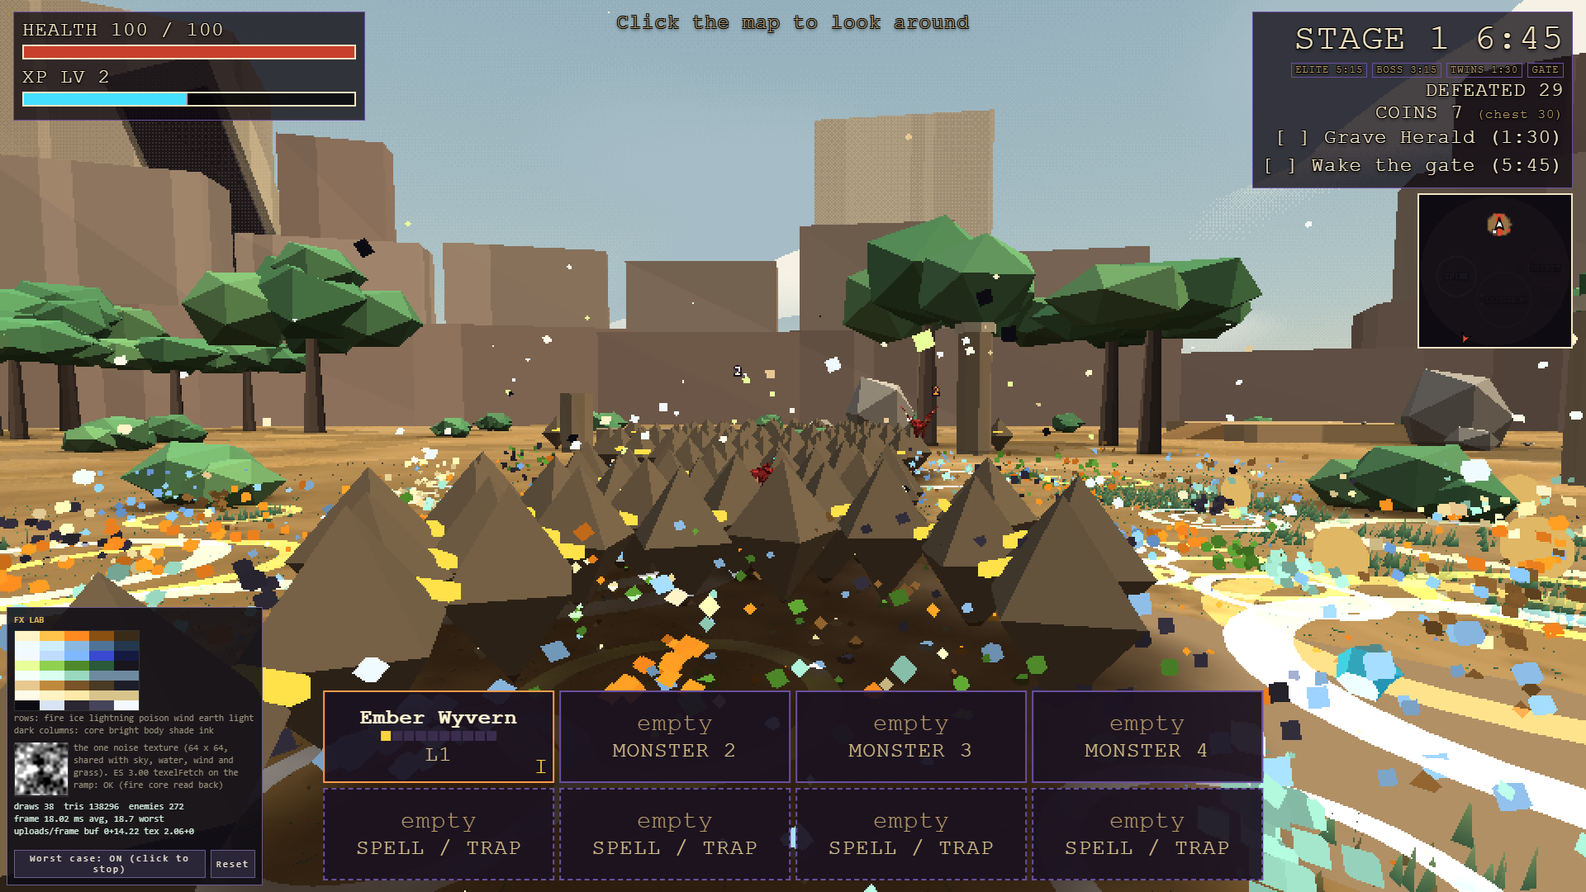
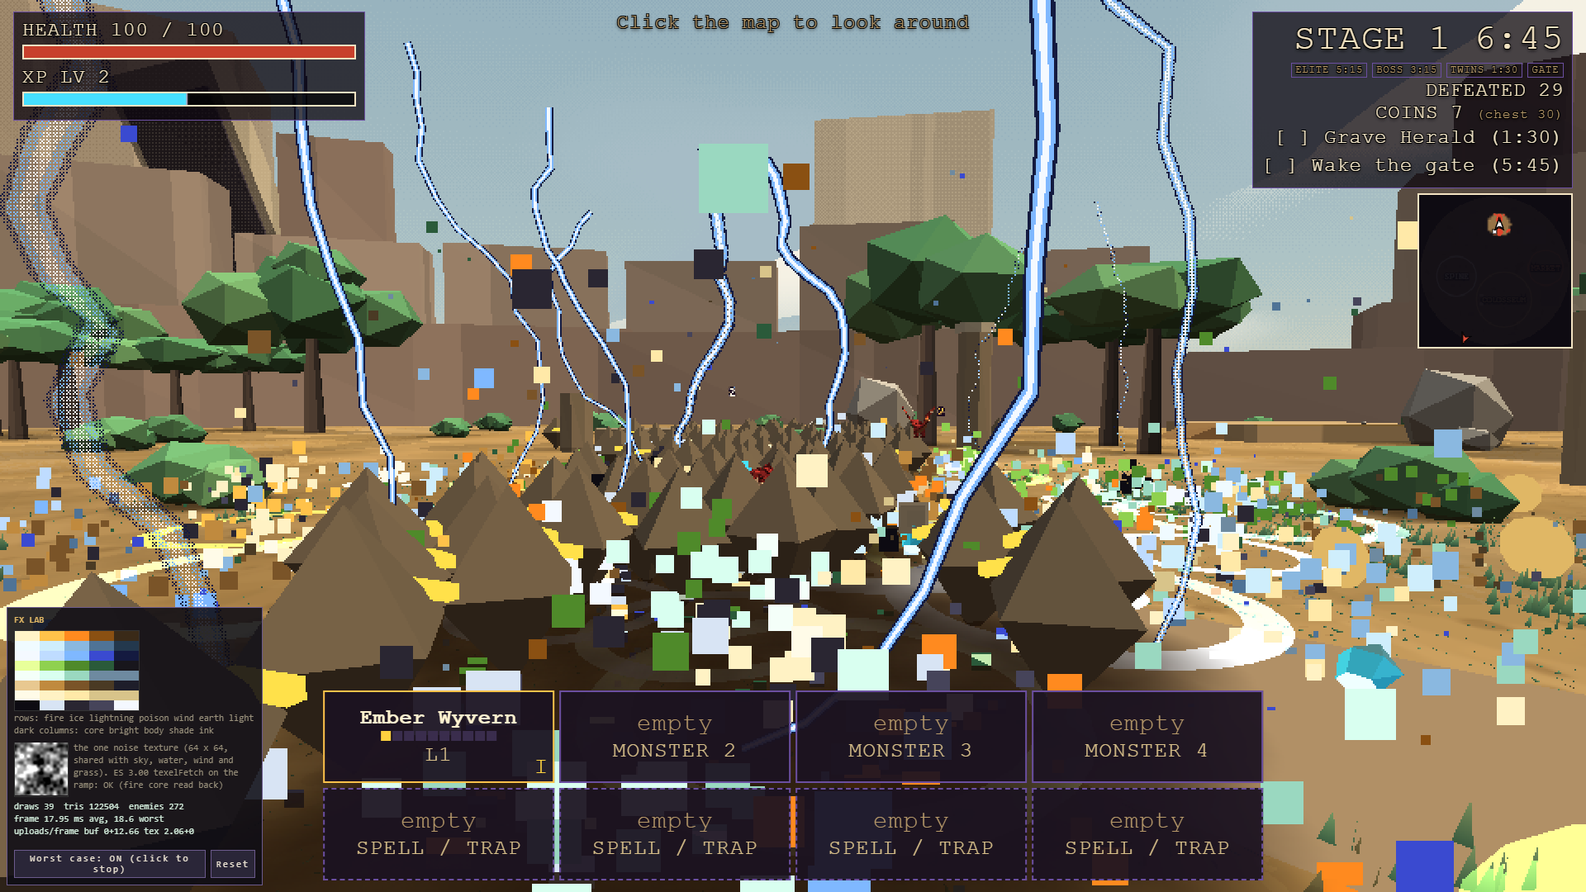
Spectacle step 6: GPU particles, the lightning ribbon, element colours from the ramp
Particles: the 4,000-slot CPU loop and its two buffer uploads a frame are replaced by one instanced draw worked out on the GPU (spec 6.4). A particle is written once, at spawn, into one interleaved 15-float buffer (position and birth time, velocity and life, gravity, drag, size, ramp row, explicit colour); the vertex shader finds its place from the clock (closed-form drag, gravity, stepped shrink, nothing drawn within 2 m of the lens), the fragment shader writes a hard square in the ramp tone for its age, and only the slots spawned that frame are uploaded. The pool is 4,096 and the mesh is hidden when nothing is live. Callers are unchanged; new burstEl and sparkEl spawn straight into an element's ramp row. Lightning: view/ribbon.js is the spec 6.5 ribbon, one strip of 17 points by 2 sides, one instance per bolt, ES 3.00 with the midpoint displacement summed in the vertex shader and a new shape every 50 ms while the bolt is thin; the monster rune bolts use it instead of three boxes, in the lightning ramp row (blue-white core, electric body, ink edge) instead of XP cyan. Colours: damage numbers (fx.js) and the HUD element tags (hud.js) now read the ramp. test/browser-particles.mjs measures the update cost at 1,200 live; the lab's Worst case fires ribbons and ramp bursts.

Claude-Session: https://claude.ai/code/session_01G4m5sPDpcSeznt8KShqd9B

diff --git a/duelsummoner/src/view/fx.js b/duelsummoner/src/view/fx.js
@@ -1,10 +1,14 @@
-// Game-feel effects. View only: nothing here reads or changes the rules, everything is fed from the sim's event queue and from
+// Game-feel effects. View only: nothing here reads or changes the rules, everything is fed from the sim's event queue and from
 // state changes the view notices. Every pool is fixed size and allocated once (particles 4000, damage numbers 64, rings 48,
 // beams 4, flipping cards 12), so steady state allocates nothing per frame.
 const T = window.THREE;
+import { RAMP } from '../data/fxramp.js';
+import { FX } from './fxkit.js';
 
-const ELEM_COL = [null, '#ff9a3a', '#8fe8ff', '#9fd8ff', '#9be86a', '#c8f0d0', '#c9a46a', '#fff2a0', '#c08aff'];
-export const POOL = { particles: 4000, numbers: 64, rings: 48, beams: 4, cards: 12 };
+// damage number colours by element, from the one effect ramp (bright tone): fire, lightning, ice, poison, wind, earth, light, dark (index = bit + 1, as the hit flags carry them)
+const hexStr = c => '#' + c.toString(16).padStart(6, '0');
+const ELEM_COL = [null, ...['fire', 'lightning', 'ice', 'poison', 'wind', 'earth', 'light', 'dark'].map(e => hexStr(RAMP[e][1]))];
+export const POOL = { particles: 4096, numbers: 64, rings: 48, beams: 4, cards: 12 };
 
 export class Fx {
   constructor(scene, settings) {
@@ -14,14 +18,23 @@ export class Fx {
     this.avgDmg = 3;
     this.shakeOff = { x: 0, y: 0, z: 0, roll: 0 };
 
-    // particles: one instanced mesh, ring-buffer slots
-    const N = POOL.particles; this.N = N; this.head = 0;
-    this.pos = new Float32Array(N * 3); this.vel = new Float32Array(N * 3); this.age = new Float32Array(N); this.life = new Float32Array(N);
-    this.size = new Float32Array(N); this.grav = new Float32Array(N); this.rgb = new Float32Array(N * 3); this.on = new Uint8Array(N);
-    this.pm = new T.InstancedMesh(new T.OctahedronGeometry(0.5, 0), new T.MeshBasicMaterial({ color: 0xffffff }), N);
-    this.pm.instanceColor = new T.InstancedBufferAttribute(new Float32Array(N * 3), 3); this.pm.instanceMatrix.setUsage(T.DynamicDrawUsage);
+    // particles: ONE instanced draw, worked out on the GPU (spectacle spec 6.4). A particle is written once, at spawn, into one interleaved buffer of 15 floats (spawn position and birth time, velocity and life,
+    // gravity, drag, size and ramp row, an explicit colour used when the row is negative); the vertex shader finds its place from the clock, so nothing is uploaded per frame except the slots spawned that frame.
+    const N = POOL.particles; this.N = N; this.head = 0; this.pt = 0; this.pdie = new Float32Array(N).fill(-1); this._lo = N; this._hi = -1; this._wrap = false;
+    this.pbuf = new T.InstancedInterleavedBuffer(new Float32Array(N * 15), 15, 1); this.pbuf.setUsage(T.DynamicDrawUsage);
+    const pg = new T.InstancedBufferGeometry(); pg.setAttribute('position', new T.Float32BufferAttribute([-0.5, -0.5, 0, 0.5, -0.5, 0, 0.5, 0.5, 0, -0.5, 0.5, 0], 3)); pg.setIndex([0, 1, 2, 0, 2, 3]);
+    pg.setAttribute('iP0', new T.InterleavedBufferAttribute(this.pbuf, 4, 0)); pg.setAttribute('iV0', new T.InterleavedBufferAttribute(this.pbuf, 4, 4)); pg.setAttribute('iK', new T.InterleavedBufferAttribute(this.pbuf, 4, 8)); pg.setAttribute('iC', new T.InterleavedBufferAttribute(this.pbuf, 3, 12)); pg.instanceCount = N;
+    this.puni = { uTime: { value: 0 }, uRamp: FX.ramp };
+    this.pm = new T.Mesh(pg, new T.ShaderMaterial({ uniforms: this.puni, fog: false,
+      vertexShader: 'attribute vec4 iP0; attribute vec4 iV0; attribute vec4 iK; attribute vec3 iC; uniform float uTime; varying vec3 vCol; varying float vU; varying float vRow;\n' +
+        'void main() { float t = uTime - iP0.w, u = t / iV0.w; if (t < 0.0 || u >= 1.0) { gl_Position = vec4(2.0, 2.0, 2.0, 1.0); return; }\n' +
+        ' float e = iK.y > 0.0 ? (1.0 - exp(-iK.y * t)) / iK.y : t; vec3 p = iP0.xyz + iV0.xyz * e; p.y -= 0.5 * iK.x * t * t; if (iK.x > 0.0) p.y = max(p.y, 0.05);\n' +
+        ' float sz = iK.z * (u < 0.65 ? 1.0 : (1.0 - u) / 0.35); sz = ceil(sz * 16.0) / 16.0; vec4 c = viewMatrix * vec4(p, 1.0);\n' +
+        ' if (-c.z < 2.0) { gl_Position = vec4(2.0, 2.0, 2.0, 1.0); return; }\n' +
+        ' c.xy += position.xy * sz; vU = u; vRow = iK.w; vCol = iC; gl_Position = projectionMatrix * c; }',
+      fragmentShader: 'uniform sampler2D uRamp; varying vec3 vCol; varying float vU; varying float vRow;\n' +
+        'void main() { vec3 c = vRow >= 0.0 ? texture2D(uRamp, vec2((floor(vU * 4.0) + 0.5) / 8.0, (vRow + 0.5) / 8.0)).rgb : vCol; gl_FragColor = vec4(c, 1.0); }' }));
     this.pm.frustumCulled = false; this.pm.count = 0; scene.add(this.pm);
-
     // rings (flat, additive)
     const R = POOL.rings; this.R = R; this.rh = 0;
     this.rp = new Float32Array(R * 3); this.rr = new Float32Array(R); this.rage = new Float32Array(R); this.rlife = new Float32Array(R); this.rcol = new Float32Array(R * 3); this.ron = new Uint8Array(R);
@@ -62,24 +75,25 @@ export class Fx {
   hitstop(sec) { if (!this.rm_) this.stop = Math.max(this.stop, sec); }
   flash(a) { if (!this.rm_) this.flashA = Math.max(this.flashA, a); }
 
+  // one particle into the ring buffer: written once; the GPU does the rest (see the constructor). row >= 0 takes its colour from the effect ramp by age; row < 0 uses the explicit colour (r, g, b)
+  _spawn(x, y, z, vx, vy, vz, life, grav, drag, size, row, r, g, b) {
+    const i = this.head, o = i * 15, a = this.pbuf.array; if (i < this._lo) this._lo = i; if (i > this._hi) this._hi = i; this.head = (this.head + 1) % this.N; if (this.head === 0) this._wrap = true;
+    a[o] = x; a[o + 1] = y; a[o + 2] = z; a[o + 3] = this.pt; a[o + 4] = vx; a[o + 5] = vy; a[o + 6] = vz; a[o + 7] = life; a[o + 8] = grav; a[o + 9] = drag; a[o + 10] = size; a[o + 11] = row; a[o + 12] = r; a[o + 13] = g; a[o + 14] = b; this.pdie[i] = this.pt + life;
+  }
   burst(x, y, z, n, hex, speed, up, size, life, grav) {
     const c = this.col.setHex(hex);
     for (let k = 0; k < n; k++) {
-      const i = this.head, j = i * 3; this.head = (this.head + 1) % this.N;
-      const a = Math.random() * 6.2832, r = Math.random() * speed, u = (0.3 + Math.random()) * up;
-      this.pos[j] = x; this.pos[j + 1] = y; this.pos[j + 2] = z;
-      this.vel[j] = Math.cos(a) * r; this.vel[j + 1] = u; this.vel[j + 2] = Math.sin(a) * r;
-      this.age[i] = 0; this.life[i] = life * (0.7 + Math.random() * 0.6); this.size[i] = size * (0.6 + Math.random() * 0.8); this.grav[i] = grav;
-      const shade = 0.75 + Math.random() * 0.5; this.rgb[j] = c.r * shade; this.rgb[j + 1] = c.g * shade; this.rgb[j + 2] = c.b * shade; this.on[i] = 1;
+      const a = Math.random() * 6.2832, r = Math.random() * speed, u = (0.3 + Math.random()) * up, shade = 0.75 + Math.random() * 0.5;
+      this._spawn(x, y, z, Math.cos(a) * r, u, Math.sin(a) * r, life * (0.7 + Math.random() * 0.6), grav, 0, size * (0.6 + Math.random() * 0.8), -1, c.r * shade, c.g * shade, c.b * shade);
     }
   }
-  // one particle with an explicit velocity (trails, dust)
-  spark(x, y, z, vx, vy, vz, hex, size, life) {
-    const i = this.head, j = i * 3, c = this.col.setHex(hex); this.head = (this.head + 1) % this.N;
-    this.pos[j] = x; this.pos[j + 1] = y; this.pos[j + 2] = z; this.vel[j] = vx; this.vel[j + 1] = vy; this.vel[j + 2] = vz;
-    this.age[i] = 0; this.life[i] = life; this.size[i] = size; this.grav[i] = 0; this.rgb[j] = c.r; this.rgb[j + 1] = c.g; this.rgb[j + 2] = c.b; this.on[i] = 1;
+  // a burst in an element's own ramp row (0 fire, 1 ice, 2 lightning, 3 poison, 4 wind, 5 earth, 6 light, 7 dark): the colour steps core, bright, body, shade over the particle's life
+  burstEl(x, y, z, n, row, speed, up, size, life, grav) {
+    for (let k = 0; k < n; k++) { const a = Math.random() * 6.2832, r = Math.random() * speed, u = (0.3 + Math.random()) * up; this._spawn(x, y, z, Math.cos(a) * r, u, Math.sin(a) * r, life * (0.7 + Math.random() * 0.6), grav, 0, size * (0.6 + Math.random() * 0.8), row, 0, 0, 0); }
   }
-  ring(x, y, z, r, hex, life) {
+  // one particle with an explicit velocity (trails, dust)
+  spark(x, y, z, vx, vy, vz, hex, size, life) { const c = this.col.setHex(hex); this._spawn(x, y, z, vx, vy, vz, life, 0, 0, size, -1, c.r, c.g, c.b); }
+  sparkEl(x, y, z, vx, vy, vz, row, size, life) { this._spawn(x, y, z, vx, vy, vz, life, 0, 0, size, row, 0, 0, 0); }  ring(x, y, z, r, hex, life) {
     const i = this.rh, j = i * 3, c = this.col.setHex(hex); this.rh = (this.rh + 1) % this.R;
     this.rp[j] = x; this.rp[j + 1] = y; this.rp[j + 2] = z; this.rr[i] = r; this.rage[i] = 0; this.rlife[i] = life; this.rcol[j] = c.r; this.rcol[j + 1] = c.g; this.rcol[j + 2] = c.b; this.ron[i] = 1;
   }
@@ -129,23 +143,12 @@ export class Fx {
   // ---- per frame ----
   update(dt, camera) {
     this.numBudget = Math.min(8, this.numBudget + dt * 60);
-    const d = this.d, c = this.col;
-    // particles
-    let n = 0;
-    for (let i = 0; i < this.N; i++) {
-      if (!this.on[i]) continue;
-      const j = i * 3, a = (this.age[i] += dt), life = this.life[i];
-      if (a >= life) { this.on[i] = 0; continue; }
-      this.vel[j + 1] -= this.grav[i] * dt;
-      this.pos[j] += this.vel[j] * dt; this.pos[j + 1] += this.vel[j + 1] * dt; this.pos[j + 2] += this.vel[j + 2] * dt;
-      if (this.pos[j + 1] < 0.05 && this.grav[i] > 0) { this.pos[j + 1] = 0.05; this.vel[j + 1] *= -0.3; this.vel[j] *= 0.6; this.vel[j + 2] *= 0.6; }
-      const f = 1 - a / life, s = this.size[i] * (f < 0.35 ? f / 0.35 : 1);
-      d.position.set(this.pos[j], this.pos[j + 1], this.pos[j + 2]); d.rotation.set(a * 5, a * 3, 0); d.scale.setScalar(s); d.updateMatrix();
-      this.pm.setMatrixAt(n, d.matrix); this.pm.setColorAt(n, c.setRGB(this.rgb[j], this.rgb[j + 1], this.rgb[j + 2])); n++;
-    }
-    this.pm.count = n; this.pm.instanceMatrix.needsUpdate = true; this.pm.instanceColor.needsUpdate = true;
-    // rings
-    n = 0;
+    // particles: the GPU moves them; here only the clock, the one upload of the slots spawned this frame, and the live count (the tests and the lab read it)
+    this.pt += dt; this.puni.uTime.value = this.pt;
+    if (this._hi >= 0) { const b = this.pbuf; if (this._wrap) b.updateRange.count = -1; else { b.updateRange.offset = this._lo * 15; b.updateRange.count = (this._hi - this._lo + 1) * 15; } b.needsUpdate = true; this._lo = this.N; this._hi = -1; this._wrap = false; }
+    let n = 0; for (let i = 0; i < this.N; i++) if (this.pdie[i] > this.pt) n++;
+    this.pm.count = n;    // rings
+    n = 0; const d = this.d, c = this.col;
     for (let i = 0; i < this.R; i++) {
       if (!this.ron[i]) continue; const j = i * 3, a = (this.rage[i] += dt), u = a / this.rlife[i];
       if (u >= 1) { this.ron[i] = 0; continue; }

diff --git a/duelsummoner/src/view/ribbon.js b/duelsummoner/src/view/ribbon.js
@@ -1,0 +1,58 @@
+// The lightning ribbon (spectacle spec 6.5): one static strip of 17 points by 2 sides, drawn instanced, one instance per bolt. The zigzag is summed from midpoint displacement in the vertex shader (closed form, no history),
+// the bolt picks a new shape every 50 ms while it is thin, and the instance data is written once, when the sim first shows the bolt. Nothing is uploaded after that. View only: the sim keeps sending each bolt with both end
+// points and a seed (the 'bolt' effect entries); this file only draws them. Colours come from the one effect ramp (row 2, lightning: blue-white core, electric body, indigo shade, ink edge).
+import { GLSL } from './engine.js';
+import { FX } from './fxkit.js';
+import { ROW } from '../data/fxramp.js';
+const T = window.THREE, POOL = 64, STRIDE = 13;
+
+export class Ribbon {
+  constructor(scene) {
+    this.t0 = performance.now(); this.head = 0; this.last = -1e9; this.seen = new WeakMap(); this.uni = { uTime: { value: 0 }, uStepHz: { value: 20 }, uRamp: FX.ramp };
+    const pos = [], idx = []; for (let k = 0; k <= 16; k++) for (const s of [-1, 1]) pos.push(k / 16, s, 0); for (let k = 0; k < 16; k++) { const a = k * 2; idx.push(a, a + 1, a + 2, a + 1, a + 3, a + 2); }
+    this.buf = new T.InstancedInterleavedBuffer(new Float32Array(POOL * STRIDE).fill(0), STRIDE, 1); this.buf.setUsage(T.DynamicDrawUsage); for (let i = 0; i < POOL; i++) this.buf.array[i * STRIDE + 7] = -1e6;       // birth far in the past: every slot starts dead
+    const g = new T.InstancedBufferGeometry(); g.setAttribute('aTS', new T.Float32BufferAttribute(pos, 3)); g.setIndex(idx);
+    g.setAttribute('iA', new T.InterleavedBufferAttribute(this.buf, 4, 0)); g.setAttribute('iB', new T.InterleavedBufferAttribute(this.buf, 4, 4)); g.setAttribute('iC', new T.InterleavedBufferAttribute(this.buf, 4, 8)); g.setAttribute('iCore', new T.InterleavedBufferAttribute(this.buf, 1, 12)); g.instanceCount = POOL;
+    const mat = new T.ShaderMaterial({ glslVersion: T.GLSL3, uniforms: this.uni, depthWrite: true, side: T.DoubleSide, fog: false,
+      vertexShader: `precision highp float; precision highp int;
+in vec3 aTS; in vec4 iA; in vec4 iB; in vec4 iC; in float iCore; uniform float uTime; uniform float uStepHz;
+out vec2 vUV; out float vU; flat out int vRow; flat out float vCore;
+uint h(uint x) { x ^= x >> 16; x *= 0x7feb352dU; x ^= x >> 15; x *= 0x846ca68bU; x ^= x >> 16; return x; }
+float r1(uint s, int L, uint j) { return float(h(s ^ (uint(L) * 0x9e3779b9U) ^ (j * 0x85ebca6bU)) & 0xffffU) / 32767.5 - 1.0; }
+vec3 bolt(float t, uint s, vec3 a, vec3 b, vec3 n1, vec3 n2, float amp) {
+  vec2 o = vec2(0.0); float w = 1.0;
+  for (int L = 0; L < 4; L++) { float u = t * float(1 << L); uint j = uint(u); float hat = 1.0 - abs(2.0 * fract(u) - 1.0); o += hat * w * vec2(r1(s, L, j), r1(s + 77U, L, j)); w *= 0.5; }
+  return mix(a, b, t) + (n1 * o.x + n2 * o.y) * amp;
+}
+void main() {
+  float age = uTime - iB.w, u = age / iC.y;
+  if (age < 0.0 || u >= 1.0) { gl_Position = vec4(2.0, 2.0, 2.0, 1.0); return; }
+  float hz = iA.w > 0.2 ? 0.0 : uStepHz; uint s = uint(iC.x) + uint(age * hz) * 7919U;
+  vec3 d = iB.xyz - iA.xyz; float len = max(length(d), 0.001); vec3 dir = d / len;
+  vec3 n1 = normalize(cross(dir, abs(dir.y) < 0.9 ? vec3(0.0, 1.0, 0.0) : vec3(1.0, 0.0, 0.0))), n2 = cross(dir, n1);
+  float amp = min(len * 0.16, 1.2) * iC.w, t = aTS.x, e = t < 0.99 ? 0.03125 : -0.03125;
+  vec3 p = bolt(t, s, iA.xyz, iB.xyz, n1, n2, amp), q = bolt(t + e, s, iA.xyz, iB.xyz, n1, n2, amp);
+  vec3 side = normalize(cross(normalize((q - p) * sign(e)), cameraPosition - p));
+  p += side * aTS.y * iA.w * 0.5 * (1.0 - 0.6 * t);
+  vUV = vec2(t * len, aTS.y); vU = u; vRow = int(iC.z); vCore = iCore;
+  gl_Position = projectionMatrix * viewMatrix * vec4(p, 1.0);
+}`,
+      fragmentShader: GLSL.replace(/#version.*\n/, '') + `
+uniform sampler2D uRamp; out vec4 oc; in vec2 vUV; in float vU; flat in int vRow; flat in float vCore;
+void main() {
+  float a = abs(vUV.y);
+  if (vU > 0.6 && bayer() < (vU - 0.6) * 2.5) discard;
+  int tone = (a < 0.3 && vCore > 0.5) ? 0 : a < 0.7 ? 2 : 4;
+  oc = vec4(texelFetch(uRamp, ivec2(tone, vRow), 0).rgb, (tone < 4 && vCore > 0.5) ? 0.0 : 1.0);
+}` });
+    this.mesh = new T.Mesh(g, mat); this.mesh.frustumCulled = false; this.mesh.renderOrder = 2; scene.add(this.mesh); this._dirty = false;
+  }
+  // called every frame from the view: sets the clock and shows any sim bolt not seen before (a restarted pooled entry counts as new)
+  tick() { const t = this.uni.uTime.value = (performance.now() - this.t0) / 1000; this.mesh.visible = t - this.last < 2; if (this._dirty) { this.buf.needsUpdate = true; this._dirty = false; } }
+  see(o) {
+    const prev = this.seen.get(o); this.seen.set(o, o.t); if (prev !== undefined && o.t >= prev) return;
+    this.last = this.uni.uTime.value; const i = this.head, k = i * STRIDE, a = this.buf.array, now = this.uni.uTime.value - (o.t || 0); this.head = (this.head + 1) % POOL;
+    a[k] = o.x; a[k + 1] = o.y; a[k + 2] = o.z; a[k + 3] = o.w || 0.14; a[k + 4] = o.x2; a[k + 5] = o.y2; a[k + 6] = o.z2; a[k + 7] = now; a[k + 8] = o.seed || 1; a[k + 9] = o.dur || 0.15; a[k + 10] = ROW.LIGHTNING; a[k + 11] = 1; a[k + 12] = 1;
+    this.buf.updateRange.count = -1; this._dirty = true;
+  }
+}

diff --git a/duelsummoner/src/view/actors.js b/duelsummoner/src/view/actors.js
@@ -7,6 +7,7 @@ import { MAP } from '../data/map.js';
 import { SCALE, summonSize } from '../data/scale.js';
 import { DuelistRig } from './rig.js';
 import { actorLit } from './engine.js';
+import { Ribbon } from './ribbon.js';
 import { PICKUP_COLORS } from '../data/pickups.js';
 import { makeCreature } from './creature.js';
 
@@ -138,7 +139,7 @@ export class Actors {
     // soft contact shadows: a dark radial blob under the duelist, summons and swarm enemies (cheap: one instanced quad, no shadow maps)
     { const cv = document.createElement('canvas'); cv.width = cv.height = 64; const cx = cv.getContext('2d'), gr = cx.createRadialGradient(32, 32, 2, 32, 32, 31); gr.addColorStop(0, 'rgba(30,18,8,0.62)'); gr.addColorStop(0.45, 'rgba(30,18,8,0.52)'); gr.addColorStop(0.8, 'rgba(30,18,8,0.18)'); gr.addColorStop(1, 'rgba(30,18,8,0)'); cx.fillStyle = gr; cx.fillRect(0, 0, 64, 64);
       const tx = new T.CanvasTexture(cv); this.shadow = instanced(flat(new T.PlaneGeometry(2, 2)), new T.MeshBasicMaterial({ map: tx, transparent: true, depthWrite: false, polygonOffset: true, polygonOffsetFactor: -2 }), CFG.enemy.max + 16); scene.add(this.shadow); }
-    this.boltSeg = instanced(new T.BoxGeometry(0.07, 0.07, 1), basic(0x4fd8ff, { transparent: true, opacity: 0.9, depthWrite: false }), 96); scene.add(this.boltSeg);
+    this.ribbon = new Ribbon(scene);       // the rune bolts of the Spellcaster summons: the lightning ribbon, one draw (view/ribbon.js)
     this.fans = new Map();                                       // one mesh per arc angle, made on demand
     this.sand = null; this.sandR = -1;
     this.puffs = [];
@@ -473,17 +474,10 @@ export class Actors {
     this.teleLine.count = nl; this.teleDisc.count = nd;
     for (const mm of [this.teleLine, this.teleDisc]) { mm.instanceMatrix.needsUpdate = true; mm.instanceColor.needsUpdate = true; }
     // effects: expanding rings and fading fans
-    let nr = 0, nb = 0;
+    let nr = 0;
     for (const o of g.fx) {
       if (!o.on) continue;
-      if (o.type === 'bolt') {                                  // jagged 3-segment rune bolt, 0.15 s
-        const pts = [[o.x, o.y, o.z]], dx = o.x2 - o.x, dy = o.y2 - o.y, dz = o.z2 - o.z, l = Math.sqrt(dx * dx + dz * dz) || 1, nx = -dz / l, nz = dx / l;
-        for (let k = 1; k < 3; k++) { const j = ((Math.sin(o.seed * 12.9 + k * 7.1 + Math.floor(o.t * 40)) * 43758.5) % 1) * 0.9; pts.push([o.x + dx * k / 3 + nx * j, o.y + dy * k / 3 + (k % 2 ? 0.4 : -0.3), o.z + dz * k / 3 + nz * j]); }
-        pts.push([o.x2, o.y2, o.z2]);
-        for (let k = 0; k < 3 && nb < 96; k++) { const a = pts[k], b = pts[k + 1], sx = b[0] - a[0], sy = b[1] - a[1], sz = b[2] - a[2], sl = Math.sqrt(sx * sx + sy * sy + sz * sz) || 1;
-          d.position.set((a[0] + b[0]) / 2, (a[1] + b[1]) / 2, (a[2] + b[2]) / 2); d.lookAt(b[0], b[1], b[2]); d.scale.set(1, 1, sl); d.updateMatrix(); this.boltSeg.setMatrixAt(nb++, d.matrix); }
-        continue;
-      }
+      if (o.type === 'bolt') { this.ribbon.see(o); continue; }
       const f = Math.min(1, o.t / o.dur), fade = 1 - f;
       if (o.type === 'ring') {
         d.rotation.set(0, 0, 0); d.position.set(o.x, o.y + 0.15, o.z); const r = o.r * (0.35 + 0.65 * f); d.scale.set(r, 1, r); d.updateMatrix();
@@ -494,7 +488,7 @@ export class Actors {
         fan.setMatrixAt(n, d.matrix); fan.setColorAt(n, col.setHex(o.color).multiplyScalar(0.3 + 0.7 * fade)); fanN.set(fan, n + 1);
       }
     }
-    this.boltSeg.count = nb; this.boltSeg.instanceMatrix.needsUpdate = true;
+    this.ribbon.tick();
     this.fxRing.count = nr; this.fxRing.instanceMatrix.needsUpdate = true; this.fxRing.instanceColor.needsUpdate = true;
     for (const [fan, mesh] of this.fans) { mesh.count = fanN.get(mesh) || 0; mesh.instanceMatrix.needsUpdate = true; mesh.instanceColor.needsUpdate = true; }
   }

diff --git a/duelsummoner/src/view/fxlab.js b/duelsummoner/src/view/fxlab.js
@@ -28,8 +28,9 @@ export function startLab(D) {
   const out = $('pre', 'margin:6px 0 4px;white-space:pre-wrap;color:#cfe8d8'); panel.append(out);
   const row = $('div', 'display:flex;gap:6px'); const btn = (t, f) => { const b = $('button', 'font:11px monospace;padding:3px 6px;background:#2a2638;color:#e8e0d0;border:1px solid #6b5a8c;cursor:pointer', t); b.onclick = f; return b; };
   let worst = false, timer = 0, kinds = ['husk', 'runner', 'seer', 'bloat', 'golem', 'scarab'];
-  const burstAll = () => { const p = g.p; ELEMENTS.forEach((el, i) => { const c = RAMP[el][2]; for (let k = 0; k < 3; k++) { const a = Math.random() * 6.283, d = 2 + Math.random() * 14, x = p.x + Math.cos(a) * d, z = p.z + Math.sin(a) * d; fx.burst(x, 0.3, z, 18, c, 6, 4, 0.18, 0.7, 12); fx.ring(x, 0.1, z, 1.5 + Math.random() * 3, RAMP[el][1], 0.5); fx.spark(x, 0.5, z, (Math.random() - 0.5) * 6, 5 + Math.random() * 5, (Math.random() - 0.5) * 6, RAMP[el][0], 0.2, 0.6); } }); };
-  const worstCase = on => { worst = on === undefined ? !worst : on; if (worst) { g.god = true; g.spawnAcc = -1e9; D.fillSwarm(300 - g.enemyCount(), 'husk'); for (let i = 0; i < 300 && g.enemyCount() < 300; i++) D.fillSwarm(1, kinds[i % 6]); timer = setInterval(burstAll, 100); wb.textContent = 'Worst case: ON (click to stop)'; } else { clearInterval(timer); wb.textContent = 'Worst case'; } };
+  const burstAll = () => { const p = g.p; ELEMENTS.forEach((el, i) => { const c = RAMP[el][2]; for (let k = 0; k < 3; k++) { const a = Math.random() * 6.283, d = 2 + Math.random() * 14, x = p.x + Math.cos(a) * d, z = p.z + Math.sin(a) * d; fx.burstEl(x, 0.3, z, 18, i, 6, 4, 0.18, 0.7, 12); fx.ring(x, 0.1, z, 1.5 + Math.random() * 3, RAMP[el][1], 0.5); fx.sparkEl(x, 0.5, z, (Math.random() - 0.5) * 6, 5 + Math.random() * 5, (Math.random() - 0.5) * 6, i, 0.2, 0.6); } }); };
+  const bolts = () => { const p = g.p, rb = D.actors.ribbon; for (let k = 0; k < 4; k++) { const a = Math.random() * 6.283, d = 3 + Math.random() * 12, x = p.x + Math.cos(a) * d, z = p.z + Math.sin(a) * d, wide = k === 0; rb.see({ x, y: 7 + Math.random() * 3, z, x2: x + (Math.random() - 0.5) * 5, y2: 0.3, z2: z + (Math.random() - 0.5) * 5, t: 0, dur: 0.3 + Math.random() * 0.3, seed: (Math.random() * 1e6) | 0, w: wide ? 0.4 : 0.14 }); } };
+  const worstCase = on => { worst = on === undefined ? !worst : on; if (worst) { g.god = true; g.spawnAcc = -1e9; D.fillSwarm(300 - g.enemyCount(), 'husk'); for (let i = 0; i < 300 && g.enemyCount() < 300; i++) D.fillSwarm(1, kinds[i % 6]); timer = setInterval(() => { burstAll(); bolts(); }, 100); wb.textContent = 'Worst case: ON (click to stop)'; } else { clearInterval(timer); wb.textContent = 'Worst case'; } };
   const wb = btn('Worst case', () => worstCase()); row.append(wb, btn('Reset', () => { worstCase(false); for (let k = 0; k < g.en.max; k++) if (g.en.alive[k]) g.en.alive[k] = 0; })); panel.append(row);
   document.body.append(panel);
 

diff --git a/duelsummoner/src/view/hud.js b/duelsummoner/src/view/hud.js
@@ -1,4 +1,5 @@
 // The plain placeholder HUD (the real look is awaiting approval). Text and bar widths only change when values change.
+import { RAMP } from '../data/fxramp.js';
 import { CFG } from '../data/config.js';
 import { clock } from '../core/util.js';
 import { MONSTERS, FUSIONS, SPELLS, TRAPS, FIELD_RULES, LEVELS, formOf } from '../data/cards.js';
@@ -19,7 +20,7 @@ function buildZones() {
   for (let i = 0; i < FIELD_RULES.spellTrapZones; i++) z.insertAdjacentHTML('beforeend', '<div class="zone st" id="sz' + i + '"></div>');
   zonesBuilt = true;
 }
-const EL_COL = { fire: '#ff9a4a', lightning: '#7fe0ff' }, ROMAN = ['I', 'II', 'III'];
+const EL_COL = { fire: '#' + RAMP.fire[1].toString(16), lightning: '#' + RAMP.lightning[1].toString(16) }, ROMAN = ['I', 'II', 'III'];
 const pips = (n, max) => '<i class="pips">' + Array.from({ length: max }, (_, k) => '<u' + (k < n ? ' class="on"' : '') + '></u>').join('') + '</i>';
 const stars = (n, max) => '*'.repeat(n) + '.'.repeat(Math.max(0, max - n));
 
